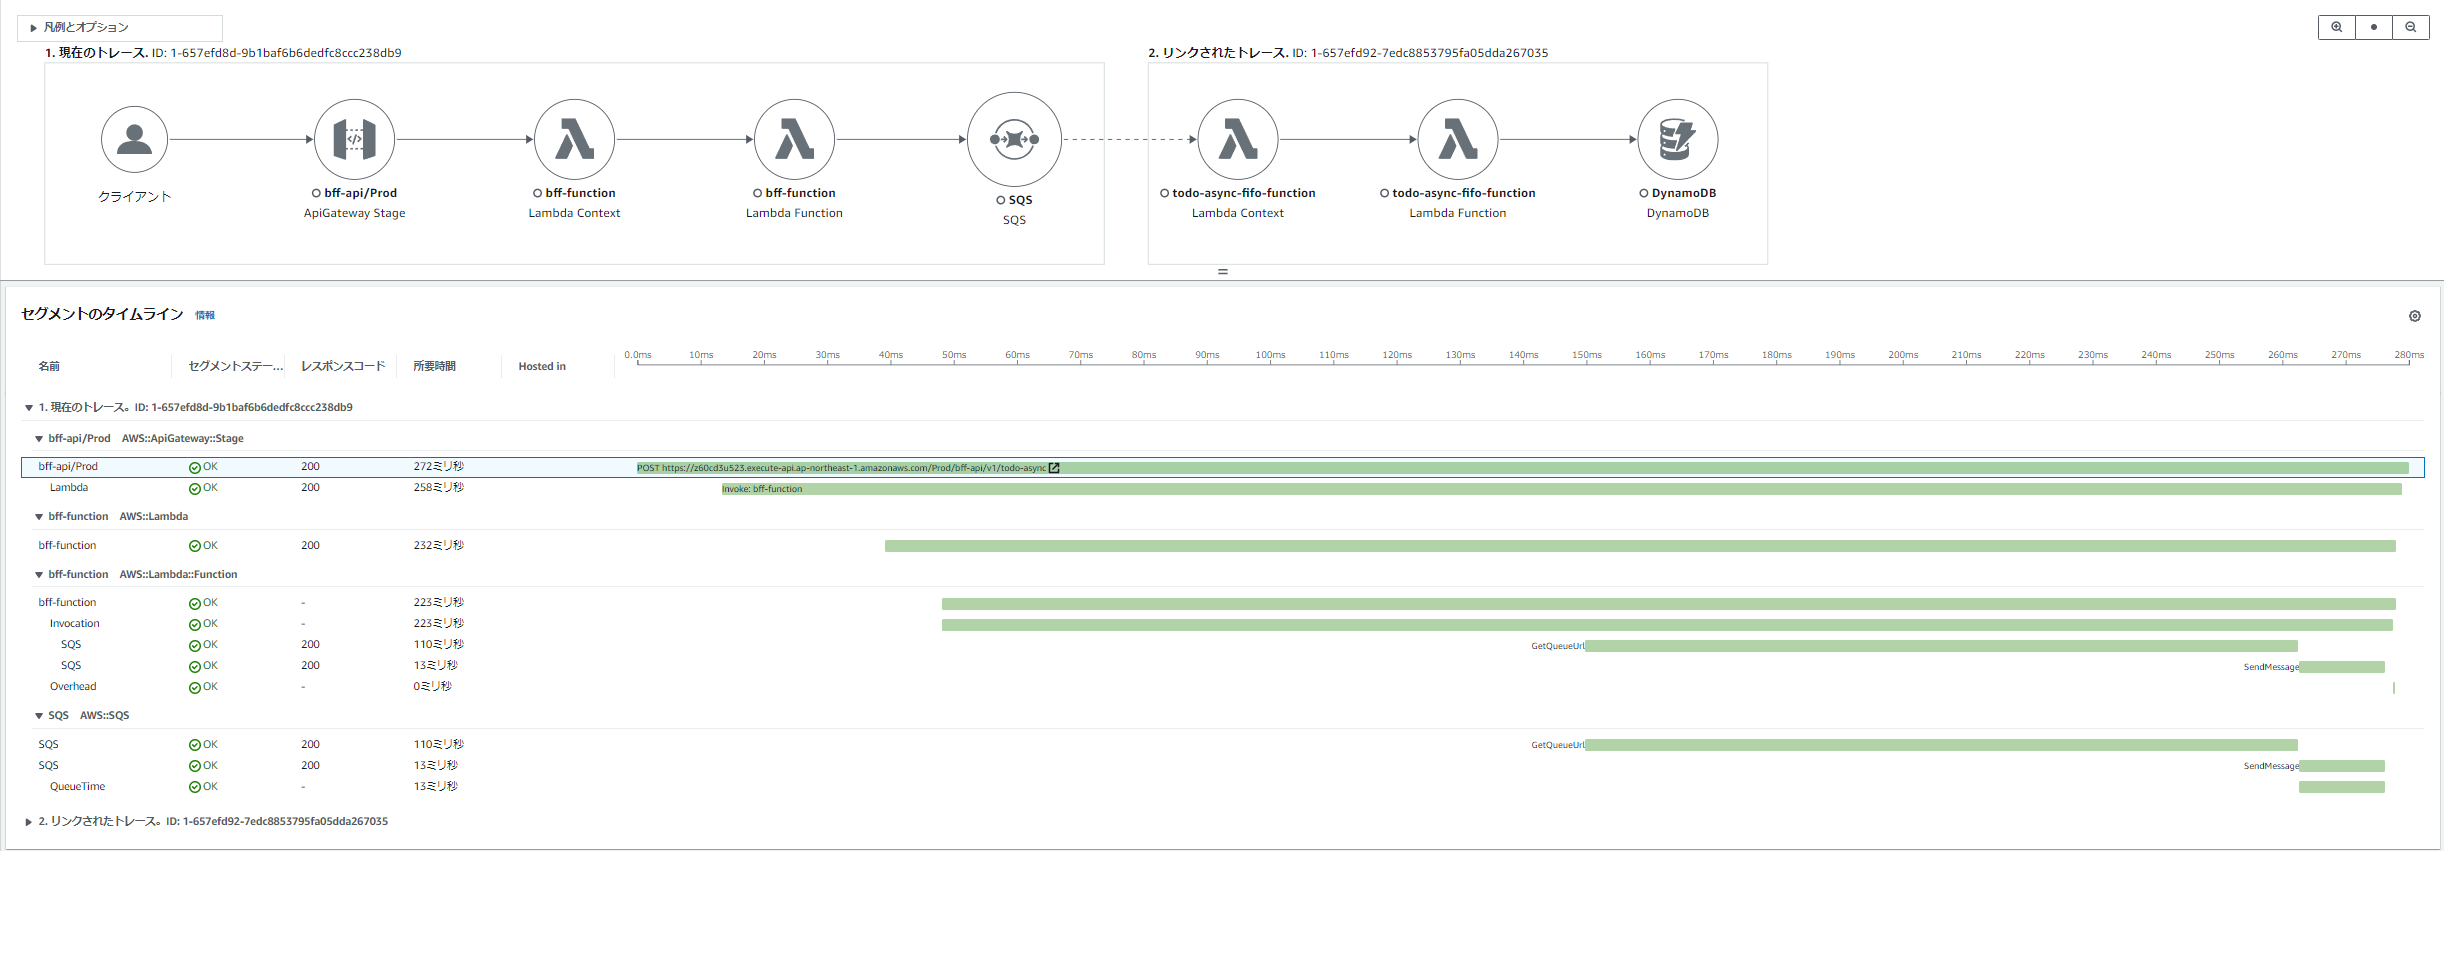
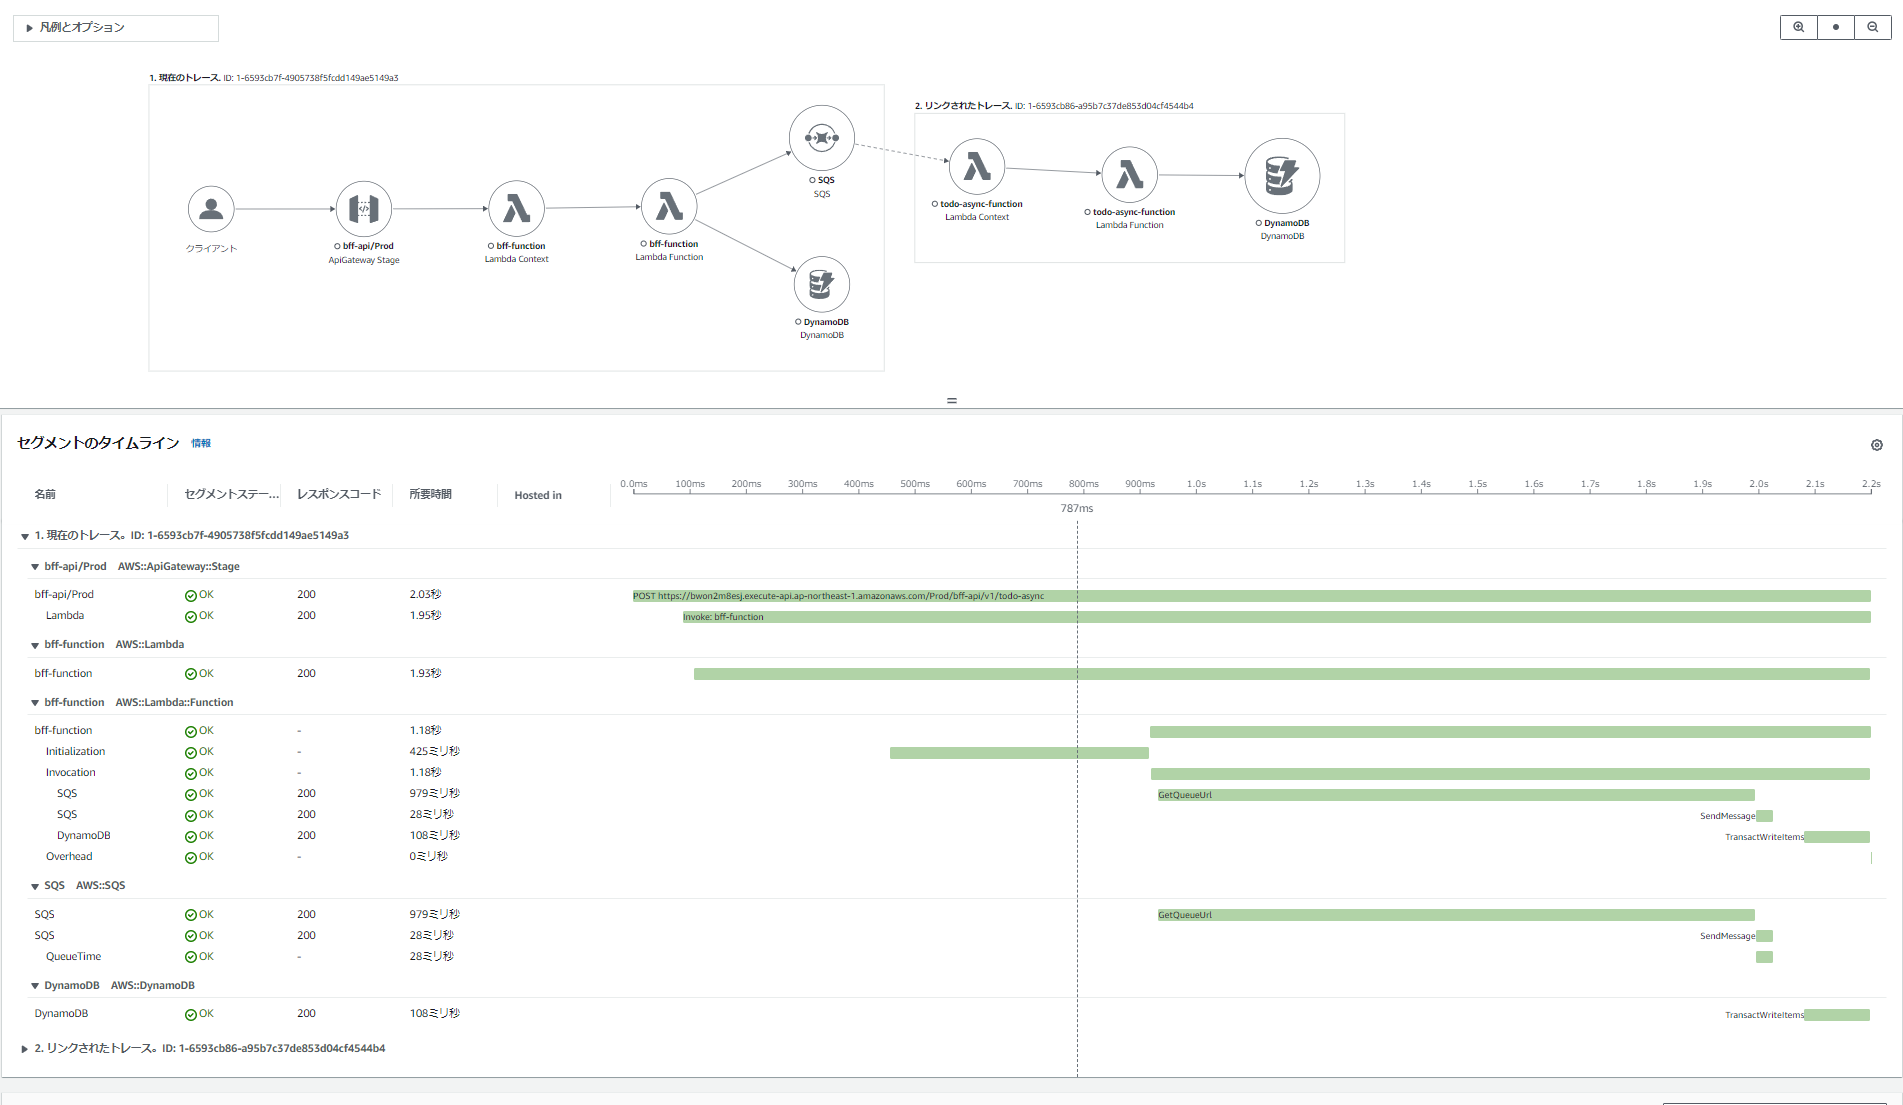
クラウド上での動作確認、AppConfigのVPC Endpoint対応

diff --git a/README.md b/README.md
@@ -69,14 +69,13 @@ aws cloudformation create-stack --stack-name Demo-SG-Stack --template-body file:
 ```
 
 ## 4. VPC Endpointの作成とプライベートサブネットのルートテーブル更新
-* VPC内LambdaからDynamoDBへアクセスするためのVPC Endpointを作成
+* API GatewayのPrivate APIのためのVPC Endpointや、VPC内LambdaからDynamoDB、SQS、AppConfig等へアクセスするためのVPC Endpointを作成
 ```sh
 aws cloudformation validate-template --template-body file://cfn-vpe.yaml
 aws cloudformation create-stack --stack-name Demo-VPE-Stack --template-body file://cfn-vpe.yaml
 ```
 ## 5. NAT Gatewayの作成とプライベートサブネットのルートテーブル更新
 * VPC内Lambdaからインターネットに接続する場合に必要となる。
-    * 現状、VPC Endpointに対応していないためVPC内LambdaからのAppConfigへのアクセスに必要。
     * hello-worldのサンプルAPでは[https://checkip.amazonaws.com](https://checkip.amazonaws.com)へアクセスしに行くため必要。
 
 ```sh
@@ -288,15 +287,18 @@ curl https://adoscoxed14.execute-api.ap-northeast-1.amazonaws.com/Prod/bff-api/v
 ```
 
 * ディレード処理の実行例
-    * TODO: Bffからのキューへのメッセージ送信ができるまでの暫定手順
-
 ```sh
 # BFFからの非同期実行依頼（標準キュー）
-curl -X POST https://adoscoxed14.execute-api.ap-northeast-1.amazonaws.com/Prod/bff-api/v1/todo-async
-curl -X POST https://adoscoxed14.execute-api.ap-northeast-1.amazonaws.com/Prod/bff-api/v1/todo-async?dbtx=no
+# 業務のDB更新を伴う場合
+curl -X POST -H "Content-Type: application/json" -d '{ "todo_titles" : ["Buy Milk", "Study English"]}' https://adoscoxed14.execute-api.ap-northeast-1.amazonaws.com/Prod/bff-api/v1/todo-async
+# 業務のDB更新を伴わない場合
+curl -X POST -H "Content-Type: application/json" -d '{ "todo_titles" : ["Buy Milk", "Study English"]}' https://adoscoxed14.execute-api.ap-northeast-1.amazonaws.com/Prod/bff-api/v1/todo-async?dbtx=no
+
 # BFFからの非同期実行依頼（FIFOキュー）
-curl -X POST https://adoscoxed14.execute-api.ap-northeast-1.amazonaws.com/Prod/bff-api/v1/todo-async?fifo=true
-curl -X POST https://adoscoxed14.execute-api.ap-northeast-1.amazonaws.com/Prod/bff-api/v1/todo-async?fifo=true\&dbtx=no
+# 業務のDB更新を伴う場合
+curl -X POST -H "Content-Type: application/json" -d '{ "todo_titles" : ["Buy Milk", "Study English"]}' https://adoscoxed14.execute-api.ap-northeast-1.amazonaws.com/Prod/bff-api/v1/todo-async?fifo=true
+# 業務のDB更新を伴わない場合
+curl -X POST -H "Content-Type: application/json" -d '{ "todo_titles" : ["Buy Milk", "Study English"]}' https://adoscoxed14.execute-api.ap-northeast-1.amazonaws.com/Prod/bff-api/v1/todo-async?fifo=true\&dbtx=no
 
 ```
 
